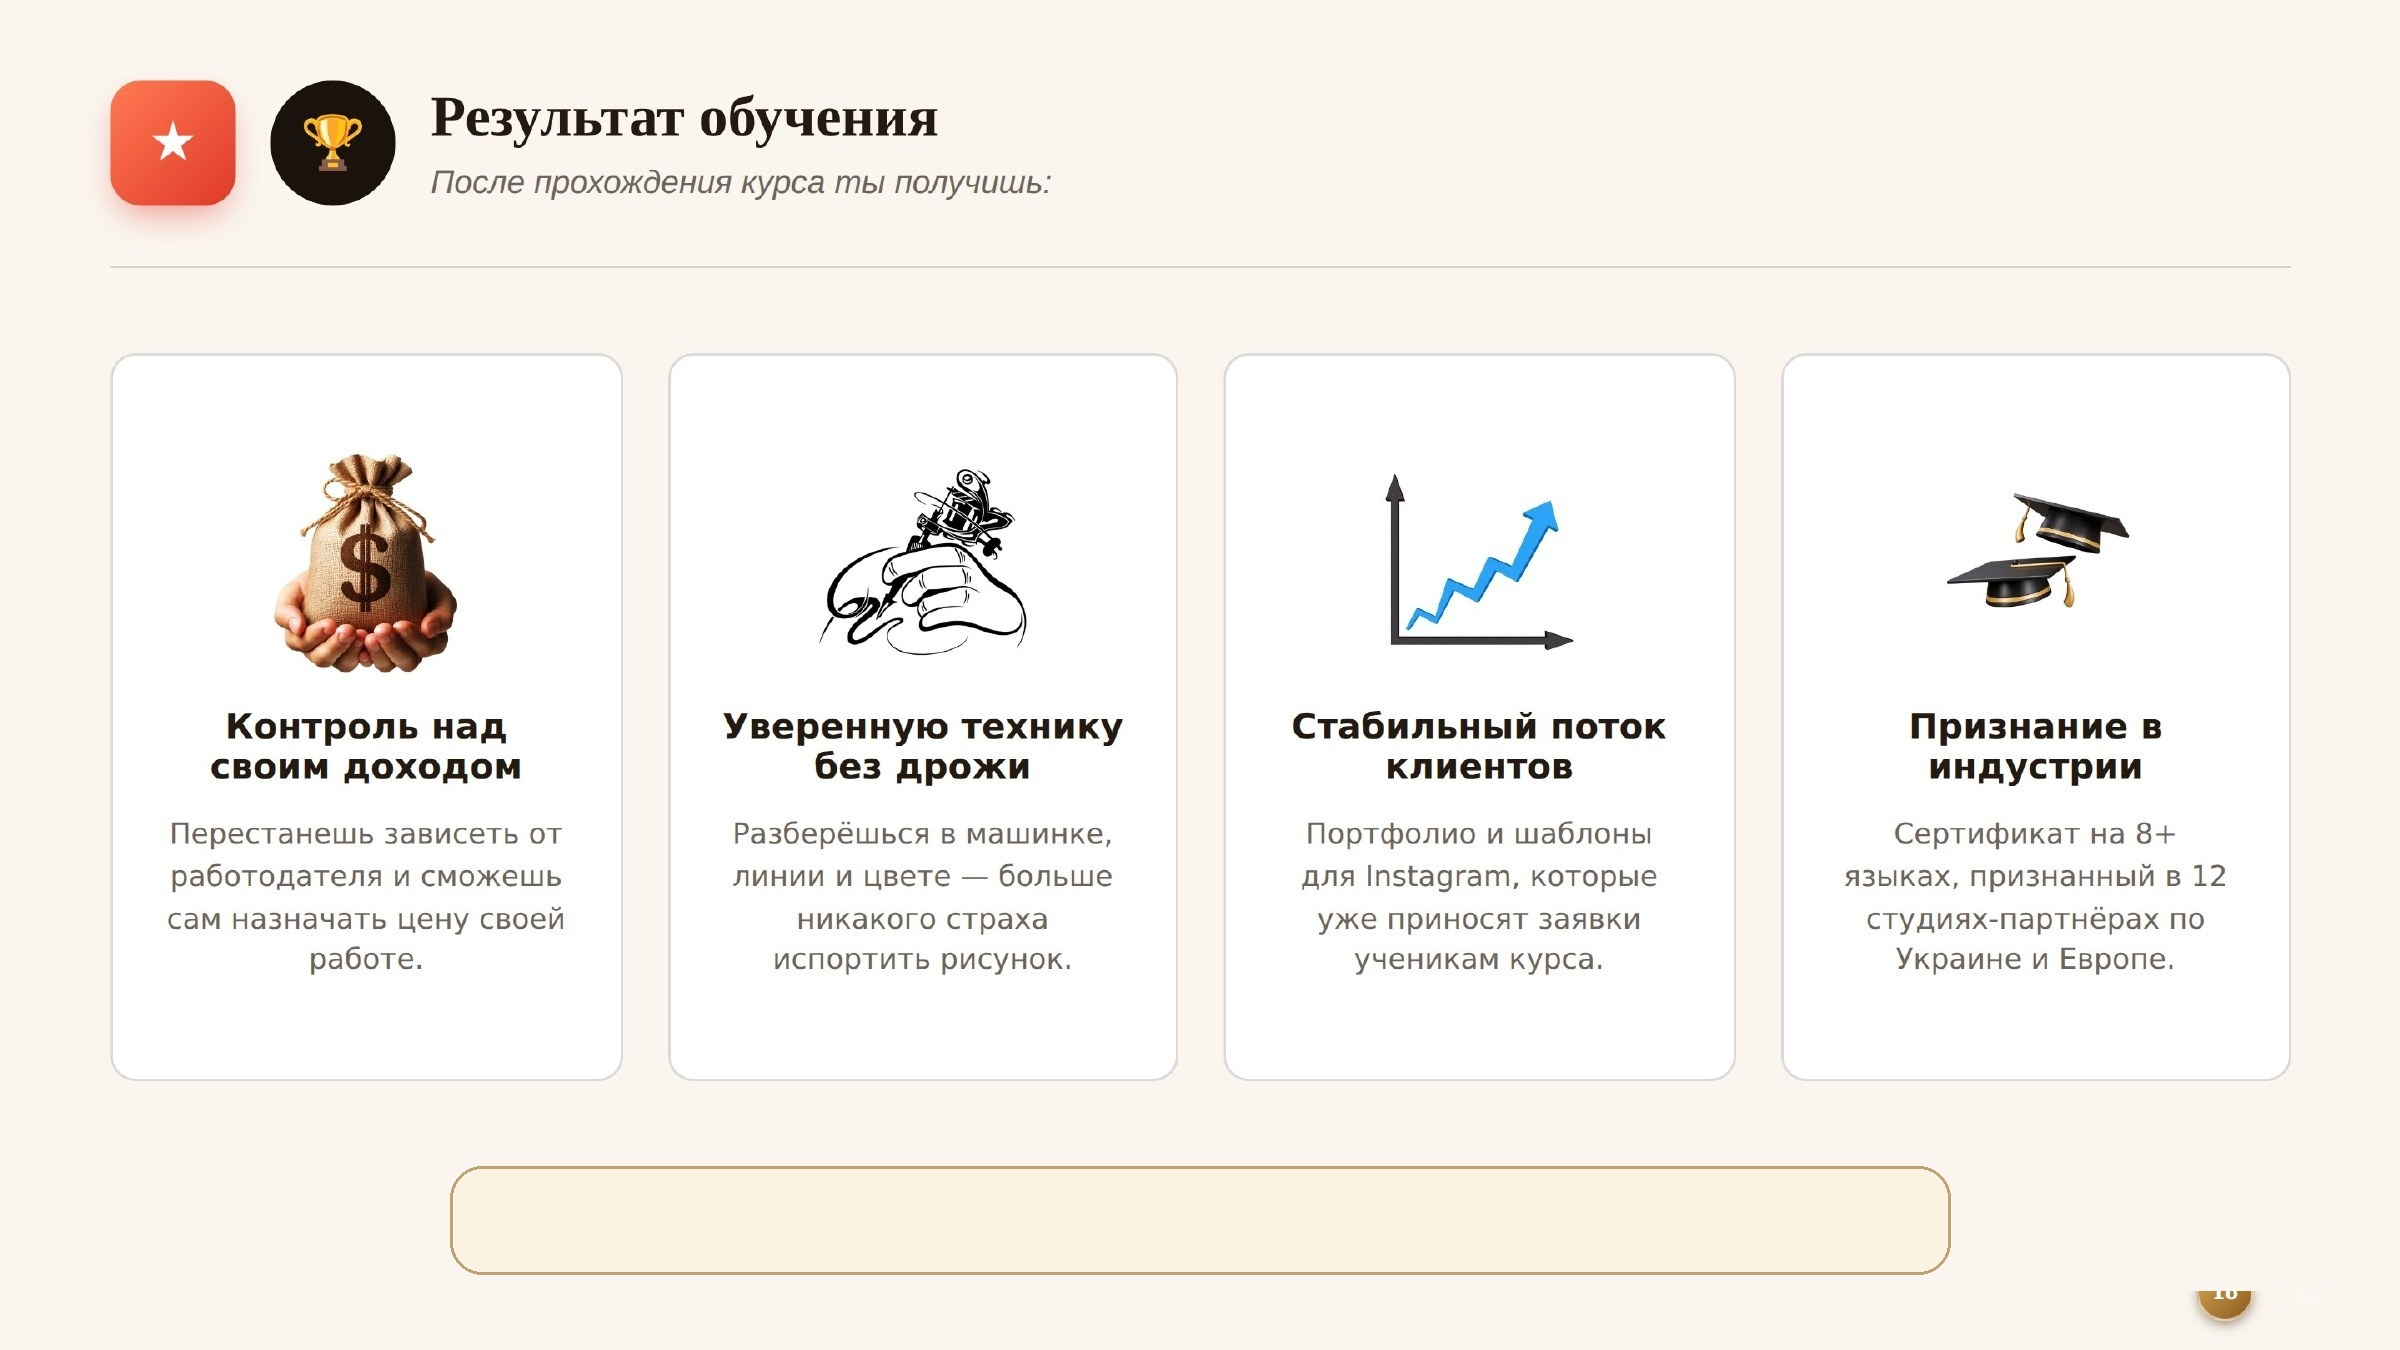
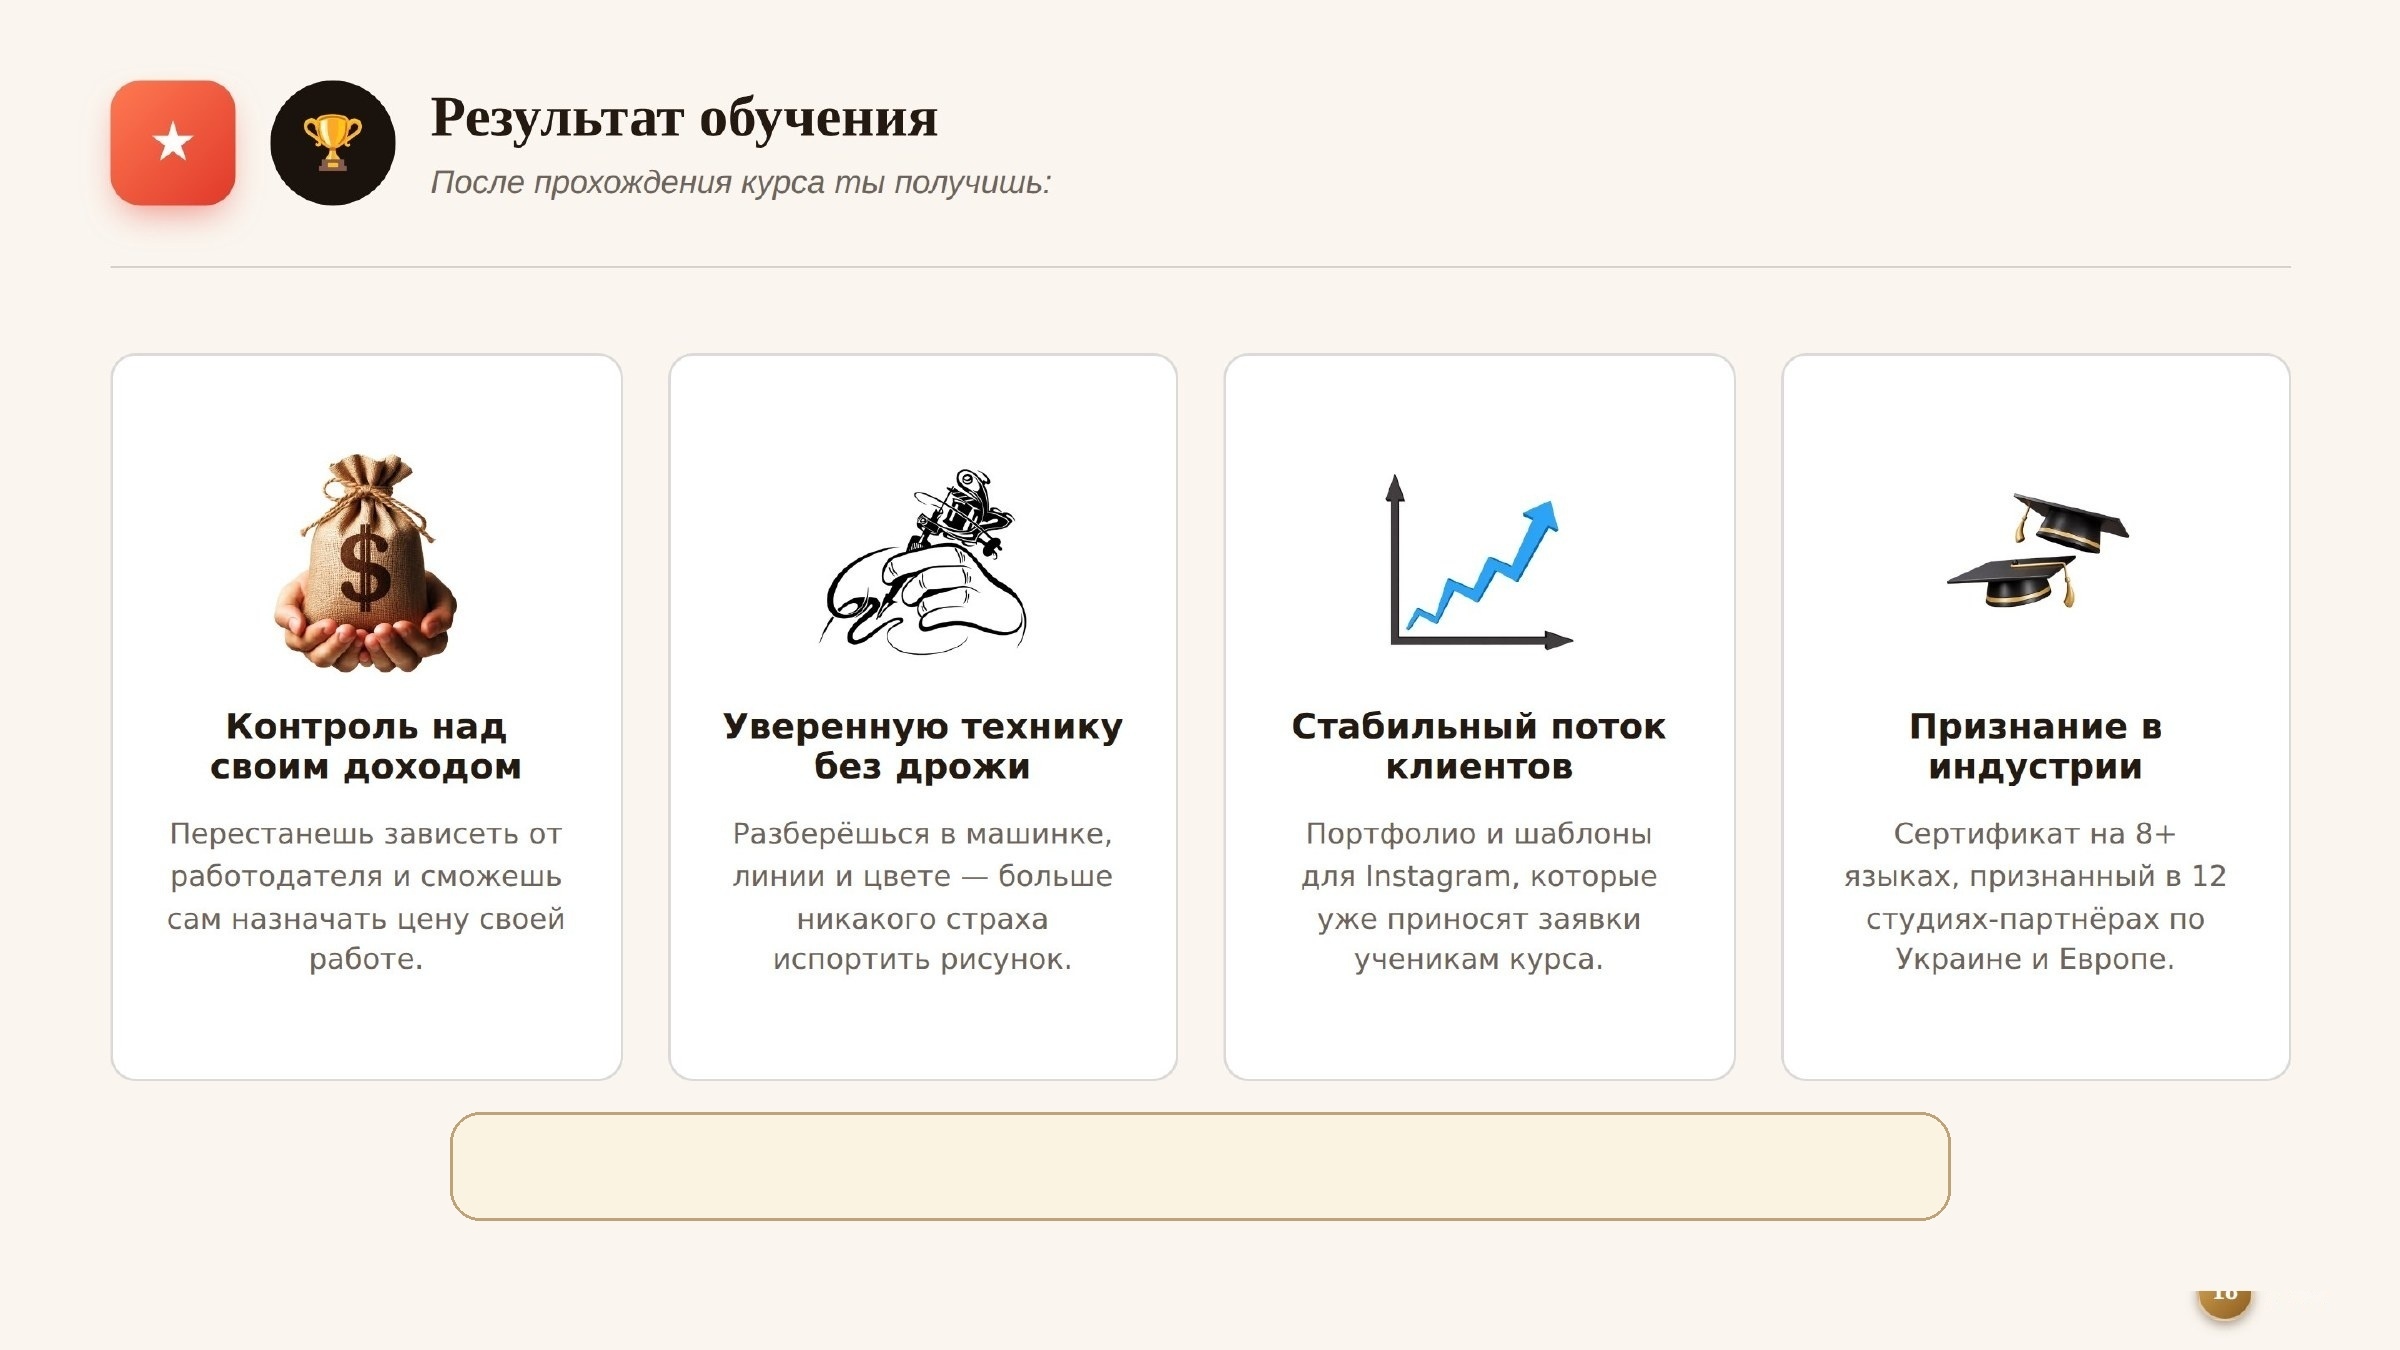
Raise slide 19 quote box (both edges up by half its height)
Claude-Session: https://claude.ai/code/session_01CnfRud7UFKfhrBcKWTmy69

Changed region(s): [[0.1875, 0.9022, 0.2188, 0.9333], [0.1875, 0.84, 0.2188, 0.8711]]

diff --git a/docs/index.html b/docs/index.html
@@ -173,7 +173,7 @@
      erased its baked text, replacing it with real HTML text in the
      same crisp real-italic/900-weight style. */
   .ov-s19-quote{
-    position:absolute; left:18.75%; top:86.37%; width:62.5%; height:8%;
+    position:absolute; left:18.75%; top:82.37%; width:62.5%; height:8%;
     box-sizing:border-box; padding:0 2%;
     display:flex; align-items:center; justify-content:center; text-align:center;
     font-family:'Playfair Display',serif; font-style:italic; font-weight:900; font-size:1.45cqw; line-height:1.4; color:#8a5a1f;
@@ -256,7 +256,7 @@
   <div class="slide-wrap"><img class="slide-img" src="assets/slides/slide-17.jpg?v=2" alt="Слайд 17 — блок 14: Zoom-Tattoo"><div class="ov ov-badge on-light"><span class="num">17</span><span class="den">/23</span></div></div>
   <div class="slide-wrap"><img class="slide-img" src="assets/slides/slide-18.jpg?v=2" alt="Слайд 18 — блок 15: именной диплом"><div class="ov ov-badge on-light"><span class="num">18</span><span class="den">/23</span></div></div>
   <div class="slide-wrap">
-    <img class="slide-img" src="assets/slides/slide-19.jpg?v=4" alt="Слайд 19 — результат обучения">
+    <img class="slide-img" src="assets/slides/slide-19.jpg?v=5" alt="Слайд 19 — результат обучения">
     <div class="ov ov-s19-quote">«Не просто диплом — реальная профессия, которая кормит и приносит уверенность»</div>
     <div class="ov ov-badge on-light" style="left:91.29%;"><span class="num">19</span><span class="den">/23</span></div>
   </div>
